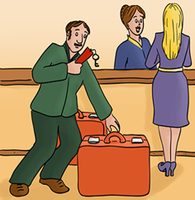
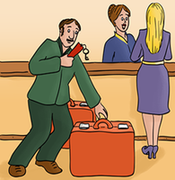
resize images in task 4 resize target field in same task also

diff --git a/bildergeschichte.html b/bildergeschichte.html
@@ -574,7 +574,7 @@ This html page should contain the whole process of this task as a collection of 
 
                 <image src="css\images\btns-bg\bt-weiter.png" id="forwardBtn" class="defaultButton" style="visibility: hidden;"/>
 
-                <h1 class="hintText"> Und weiter mit dem nächsten Zielfeld. </h1>
+                <h1 class="hintText" id="hint"> Und weiter mit dem nächsten Zielfeld. </h1>
 
             </div>
 
@@ -597,6 +597,8 @@ This html page should contain the whole process of this task as a collection of 
 
                                 // show forward button
                                 $("#forwardBtn").css("visibility", "visible");
+                                // hide text
+                                $("#hint").css("visibility", "hidden");
 
                                 setTimeout(function() {
 
@@ -790,11 +792,11 @@ This html page should contain the whole process of this task as a collection of 
                     <table class="tableWithImagesTask4" id="task4_table">
                         <tr> 
 
-                            <td class="origField" data-type="source" onclick="selectImage(this, document.getElementById('task4_table'));" id="task4_img1_orig_td1" data-status="full" ><image  id="task4_img1"  src="css\images\story-pics\task4_img1.png"/>   </td>
-                            <td class="origField" data-type="source" onclick="selectImage(this, document.getElementById('task4_table'));"  id="task4_img2_orig_td2" data-status="full" ><image  id="task4_img2"  src="css\images\story-pics\task4_img2.png"/>   </td> 
-                            <td class="origField" data-type="source" onclick="selectImage(this, document.getElementById('task4_table'));"  id="task4_img3_orig_td3" data-status="full" ><image  id="task4_img3"  src="css\images\story-pics\task4_img3.png"/>   </td> 
-                            <td class="origField" data-type="source" onclick="selectImage(this, document.getElementById('task4_table'));"  id="task4_img4_orig_td4" data-status="full" ><image  id="task4_img4"  src="css\images\story-pics\task4_img4.png"/>   </td> 
-                            <td class="origField" data-type="source" onclick="selectImage(this, document.getElementById('task4_table'));"  id="task4_img5_orig_td5" data-status="full" ><image  id="task4_img5"  src="css\images\story-pics\task4_img5.png"/>   </td> 
+                            <td class="origFieldSmall" data-type="source" onclick="selectImage(this, document.getElementById('task4_table'));" id="task4_img1_orig_td1" data-status="full" ><image  id="task4_img1"  src="css\images\story-pics\task4_img1.png"/>   </td>
+                            <td class="origFieldSmall" data-type="source" onclick="selectImage(this, document.getElementById('task4_table'));"  id="task4_img2_orig_td2" data-status="full" ><image  id="task4_img2"  src="css\images\story-pics\task4_img2.png"/>   </td> 
+                            <td class="origFieldSmall" data-type="source" onclick="selectImage(this, document.getElementById('task4_table'));"  id="task4_img3_orig_td3" data-status="full" ><image  id="task4_img3"  src="css\images\story-pics\task4_img3.png"/>   </td> 
+                            <td class="origFieldSmall" data-type="source" onclick="selectImage(this, document.getElementById('task4_table'));"  id="task4_img4_orig_td4" data-status="full" ><image  id="task4_img4"  src="css\images\story-pics\task4_img4.png"/>   </td> 
+                            <td class="origFieldSmall" data-type="source" onclick="selectImage(this, document.getElementById('task4_table'));"  id="task4_img5_orig_td5" data-status="full" ><image  id="task4_img5"  src="css\images\story-pics\task4_img5.png"/>   </td> 
 
                         </tr>
 
@@ -805,11 +807,11 @@ This html page should contain the whole process of this task as a collection of 
 
                         <tr> 
 
-                            <td class="targetField" id="task4_img1_targ_td1" data-status="empty" onclick="slideImageToTargetField(this, document.getElementById('task4_table'));" data-status="empty">   </td>
-                            <td class="targetField" id="task4_img2_targ_td2" data-status="empty" onclick="slideImageToTargetField(this, document.getElementById('task4_table'));" data-status="empty">  </td> 
-                            <td class="targetField" id="task4_img3_targ_td3" data-status="empty" onclick="slideImageToTargetField(this, document.getElementById('task4_table'));" data-status="empty">  </td> 
-                            <td class="targetField" id="task4_img4_targ_td4" data-status="empty" onclick="slideImageToTargetField(this, document.getElementById('task4_table'));" data-status="empty">  </td> 
-                            <td class="targetField" id="task4_img5_targ_td5" data-status="empty" onclick="slideImageToTargetField(this, document.getElementById('task4_table'));" data-status="empty">  </td> 
+                            <td class="targetFieldSmall" id="task4_img1_targ_td1" data-status="empty" onclick="slideImageToTargetField(this, document.getElementById('task4_table'));" data-status="empty">   </td>
+                            <td class="targetFieldSmall" id="task4_img2_targ_td2" data-status="empty" onclick="slideImageToTargetField(this, document.getElementById('task4_table'));" data-status="empty">  </td> 
+                            <td class="targetFieldSmall" id="task4_img3_targ_td3" data-status="empty" onclick="slideImageToTargetField(this, document.getElementById('task4_table'));" data-status="empty">  </td> 
+                            <td class="targetFieldSmall" id="task4_img4_targ_td4" data-status="empty" onclick="slideImageToTargetField(this, document.getElementById('task4_table'));" data-status="empty">  </td> 
+                            <td class="targetFieldSmall" id="task4_img5_targ_td5" data-status="empty" onclick="slideImageToTargetField(this, document.getElementById('task4_table'));" data-status="empty">  </td> 
 
                         </tr>
 

diff --git a/css/style.css b/css/style.css
@@ -341,6 +341,15 @@
         height: 200px;
 
     }
+    
+     .targetFieldSmall{
+        border:1px solid black; 
+        min-width: 175px;
+        min-height: 180px;
+        width: 175px;
+        height: 180px;
+
+    }
 
     .origFieldDemo{
         border:1px solid white;
@@ -357,6 +366,14 @@
         min-height: 200px;
         width: 195px;
         height: 200px;
+    }
+    
+     .origFieldSmall{
+        border:1px solid white;
+        min-width: 175px;
+        min-height: 180px;
+        width: 175px;
+        height: 180px;
     }
 
     .emptyImage{
@@ -456,21 +473,21 @@
        border-collapse:separate; 
         border-spacing: 1em;
         margin: 0 auto;
-        width: 100%; 
+        width: 1024px; 
     }
     
      .tableWithImagesTask5{
        border-collapse:separate; 
         border-spacing: 1em;
         margin: 0 auto;
-        width: 100%; 
+        width: 1024px; 
     }
     
     .tableWithImagesTask6{
        border-collapse:separate; 
         border-spacing: 1em;
         margin: 0 auto;
-        width: 100%; 
+        width: 1024px; 
     }
     
     .borderedTargetField{
